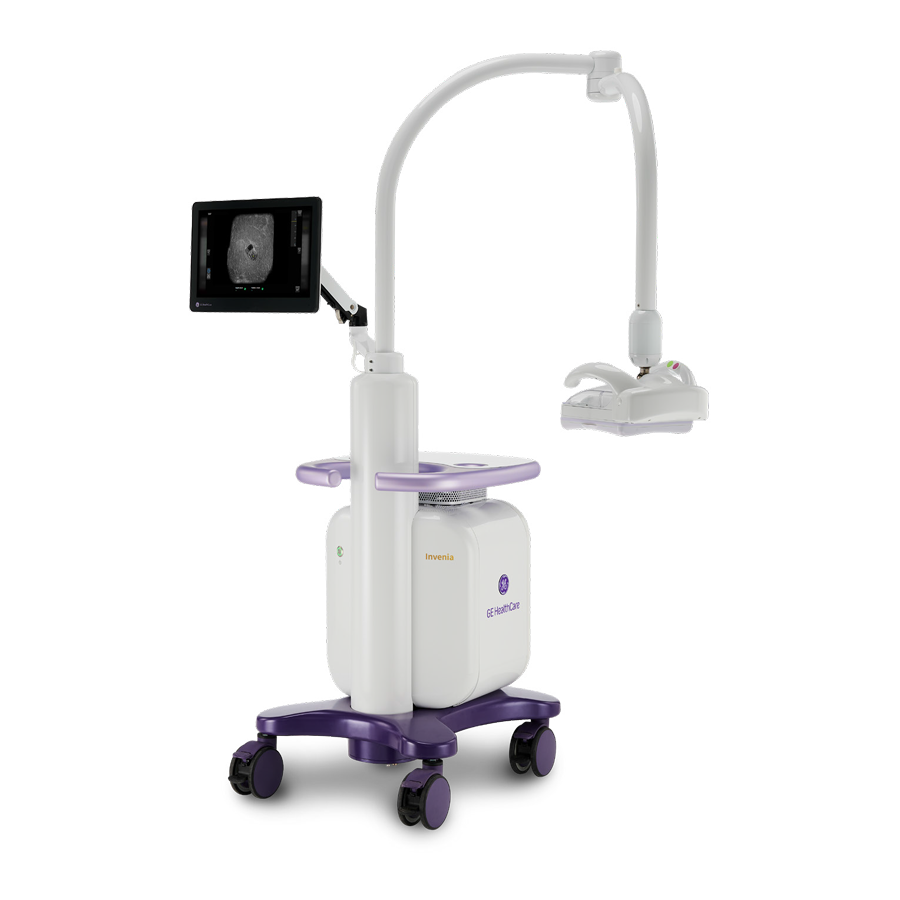
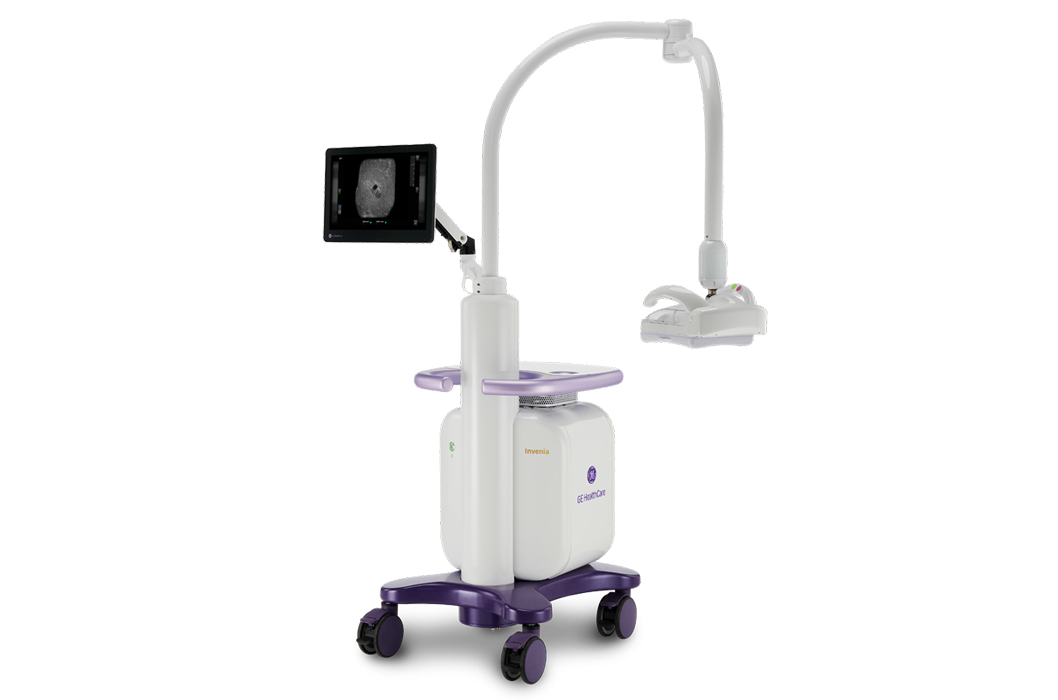
1

Changed region(s): [[0.1867, 0.03, 0.8089, 0.99]]

diff --git a/radiology.html b/radiology.html
@@ -98,7 +98,7 @@
                 <p>- FDA유일 승인 / 국내 신의료기술 획득</p>
               </div>
               <div class="img-wrap">
-                <img src="img/invenia-abus-premium.png" alt="">
+                <img src="img/invenia-abus-premium.png" alt="자동유방초음파">
               </div>
             </li>
             <li>
@@ -111,7 +111,7 @@
                 <p>- 적은 방사선으로도 선명한 영상 구현</p>
               </div>
               <div class="img-wrap">
-                <img src="img/invenia-abus-premium.png" alt="">
+                <img src="img/mammomat.png" alt="유방촬영장비">
               </div>
             </li>
             <li>
@@ -124,7 +124,7 @@
                 <p>- 1340만 화소의 고화질 이미지로 정밀진단 가능</p>
               </div>
               <div class="img-wrap">
-                <img src="img/invenia-abus-premium.png" alt="">
+                <img src="img/JW Selenia Dimensions_0.jpg" alt="유방촬영장비">
               </div>
             </li>
             <li>
@@ -137,7 +137,7 @@
                 <p>- 근감소증 진단 가능</p>
               </div>
               <div class="img-wrap">
-                <img src="img/invenia-abus-premium.png" alt="">
+                <img src="img/Horizon DXA.png" alt="골밀도측정기">
               </div>
             </li>
             <li>
@@ -149,7 +149,7 @@
                 <p>- 높은 해상도 제공</p>
               </div>
               <div class="img-wrap">
-                <img src="img/invenia-abus-premium.png" alt="">
+                <img src="img/discovery.jpg" alt="골밀도측정기">
               </div>
             </li>
             <li>
@@ -161,7 +161,7 @@
                 <p>- 빠르고 안정적인 촬영</p>
               </div>
               <div class="img-wrap">
-                <img src="img/invenia-abus-premium.png" alt="">
+                <img src="img/xray.jpg" alt="X-ray">
               </div>
             </li>
         </ul>

diff --git a/css/main.css b/css/main.css
@@ -17,7 +17,7 @@
       }
   
    #header{width: 100%; border-bottom: 1px solid #d7d7d7; 
-       position: fixed; background-color: #fff;
+       background-color: #fff;
        z-index: 1;}
    .top{width: 1200px; margin: 20px auto; display: flex; 
       justify-content: space-between;
@@ -44,13 +44,15 @@
     }
     .devices ul li{
        display: flex;
+       flex-wrap: wrap;
        width: 100%;
        height: 500px;
+       padding-bottom: 40px;
        
     }
-    .devices ul li:nth-child(even){
+    /* .devices ul li:nth-child(even){
         background-color: #f4f4f4;
-    }
+    } */
     .devices ul li .txt-wrap{
        width: 50%;
        
@@ -67,7 +69,7 @@
      }
      .devices ul li .txt-wrap h3{
         font-size: 25px;
-        padding-bottom: 30px;
+        padding: 30px 0;
      }
 
      .devices ul li .txt-wrap p{
@@ -76,11 +78,13 @@
      }
      .devices ul li .img-wrap{
         width: 50%;
-        background-size: contain;
+        display: flex;
+        justify-content: center;
+        
      }
      .devices ul li .img-wrap img{
-      width: 100%;
-      height: 100%;
-      object-fit: scale-down;
+      max-width: 100%;
+      height: auto;
+      object-fit: contain;
      }
 }

diff --git a/css/style_849.css b/css/style_849.css
@@ -38,9 +38,9 @@
 
        
     }
-    .devices ul li:nth-child(even){
+    /* .devices ul li:nth-child(even){
         background-color: #f4f4f4;
-    }
+    } */
     
     .devices ul li .txt-wrap{
         width: 100%;
@@ -65,10 +65,11 @@
      }
      .devices ul li .img-wrap{
         width: 100%;
+        display: flex;
+        justify-content: center;
      }
      .devices ul li .img-wrap img{
-         width: 100%;
-         height: 100%;
-         object-fit: scale-down;
+         max-width: 70%;
+         height: auto;
      }
 }
